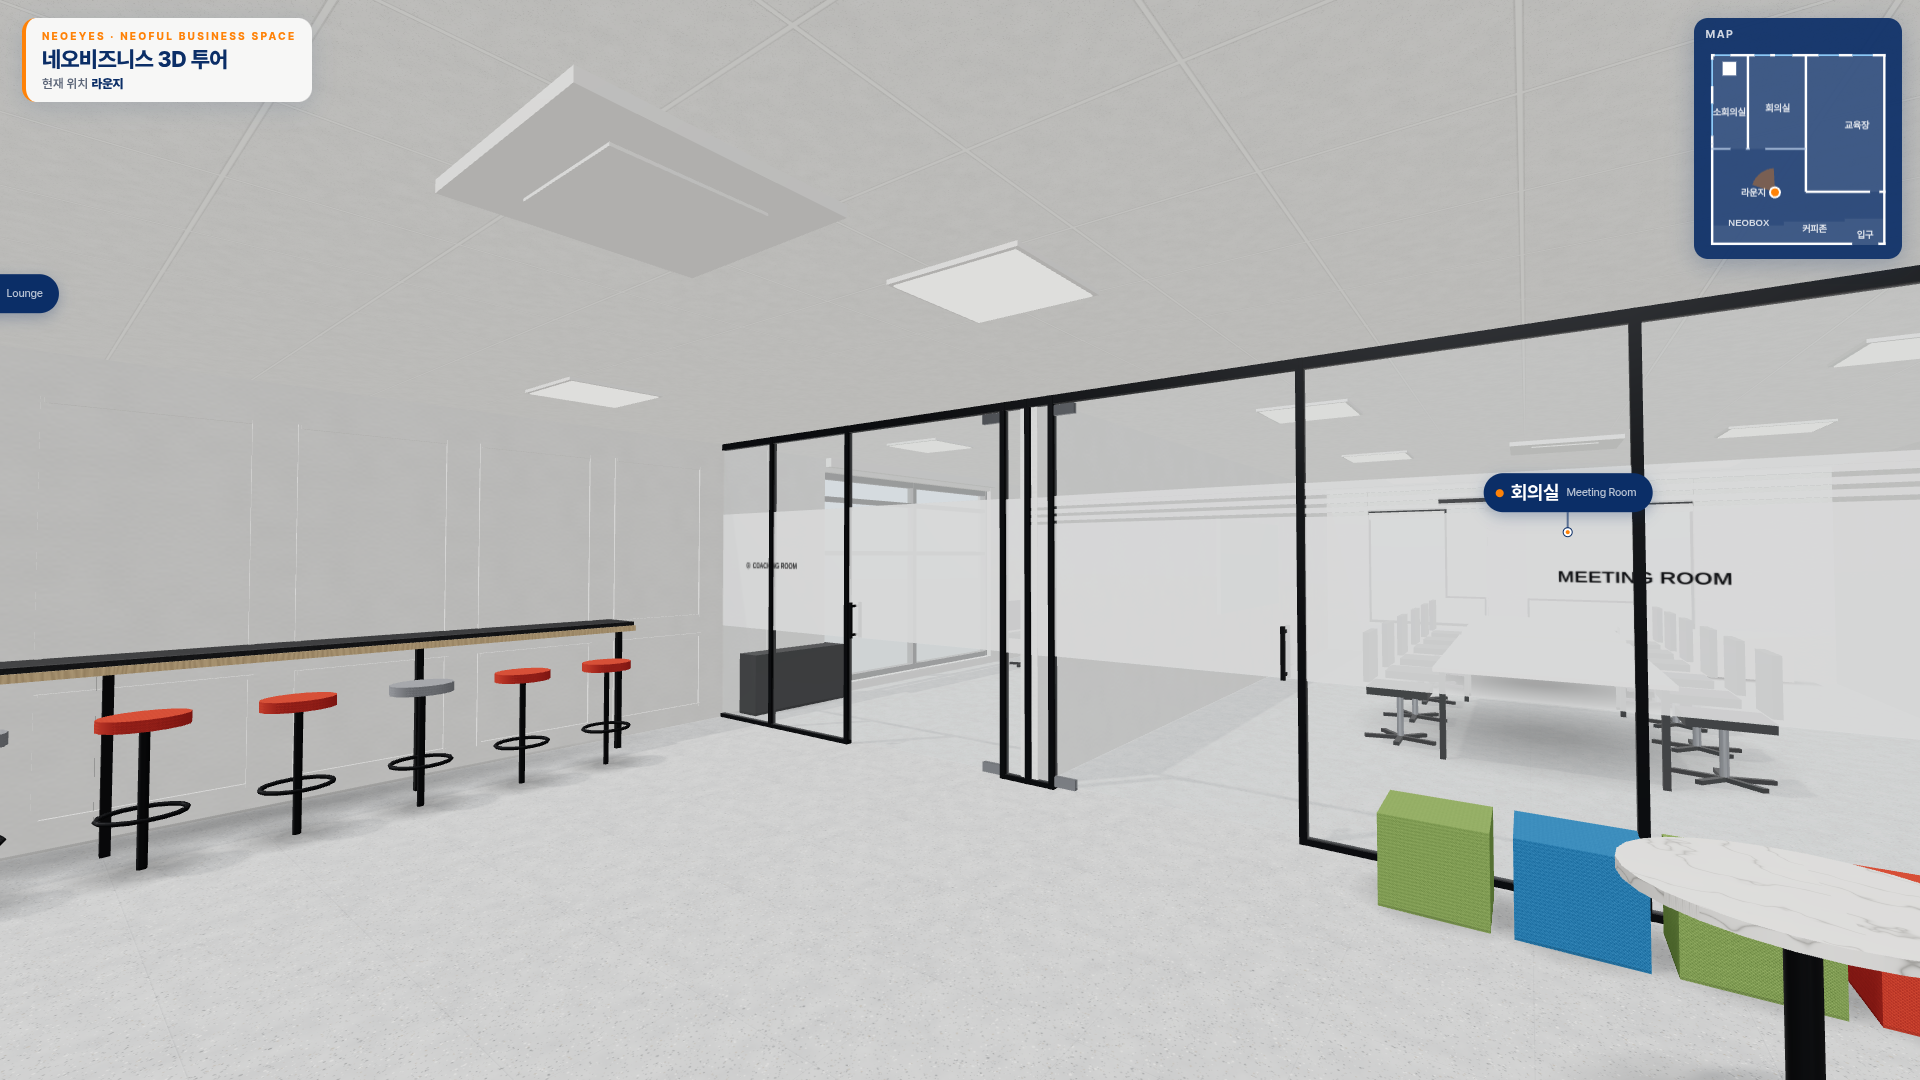
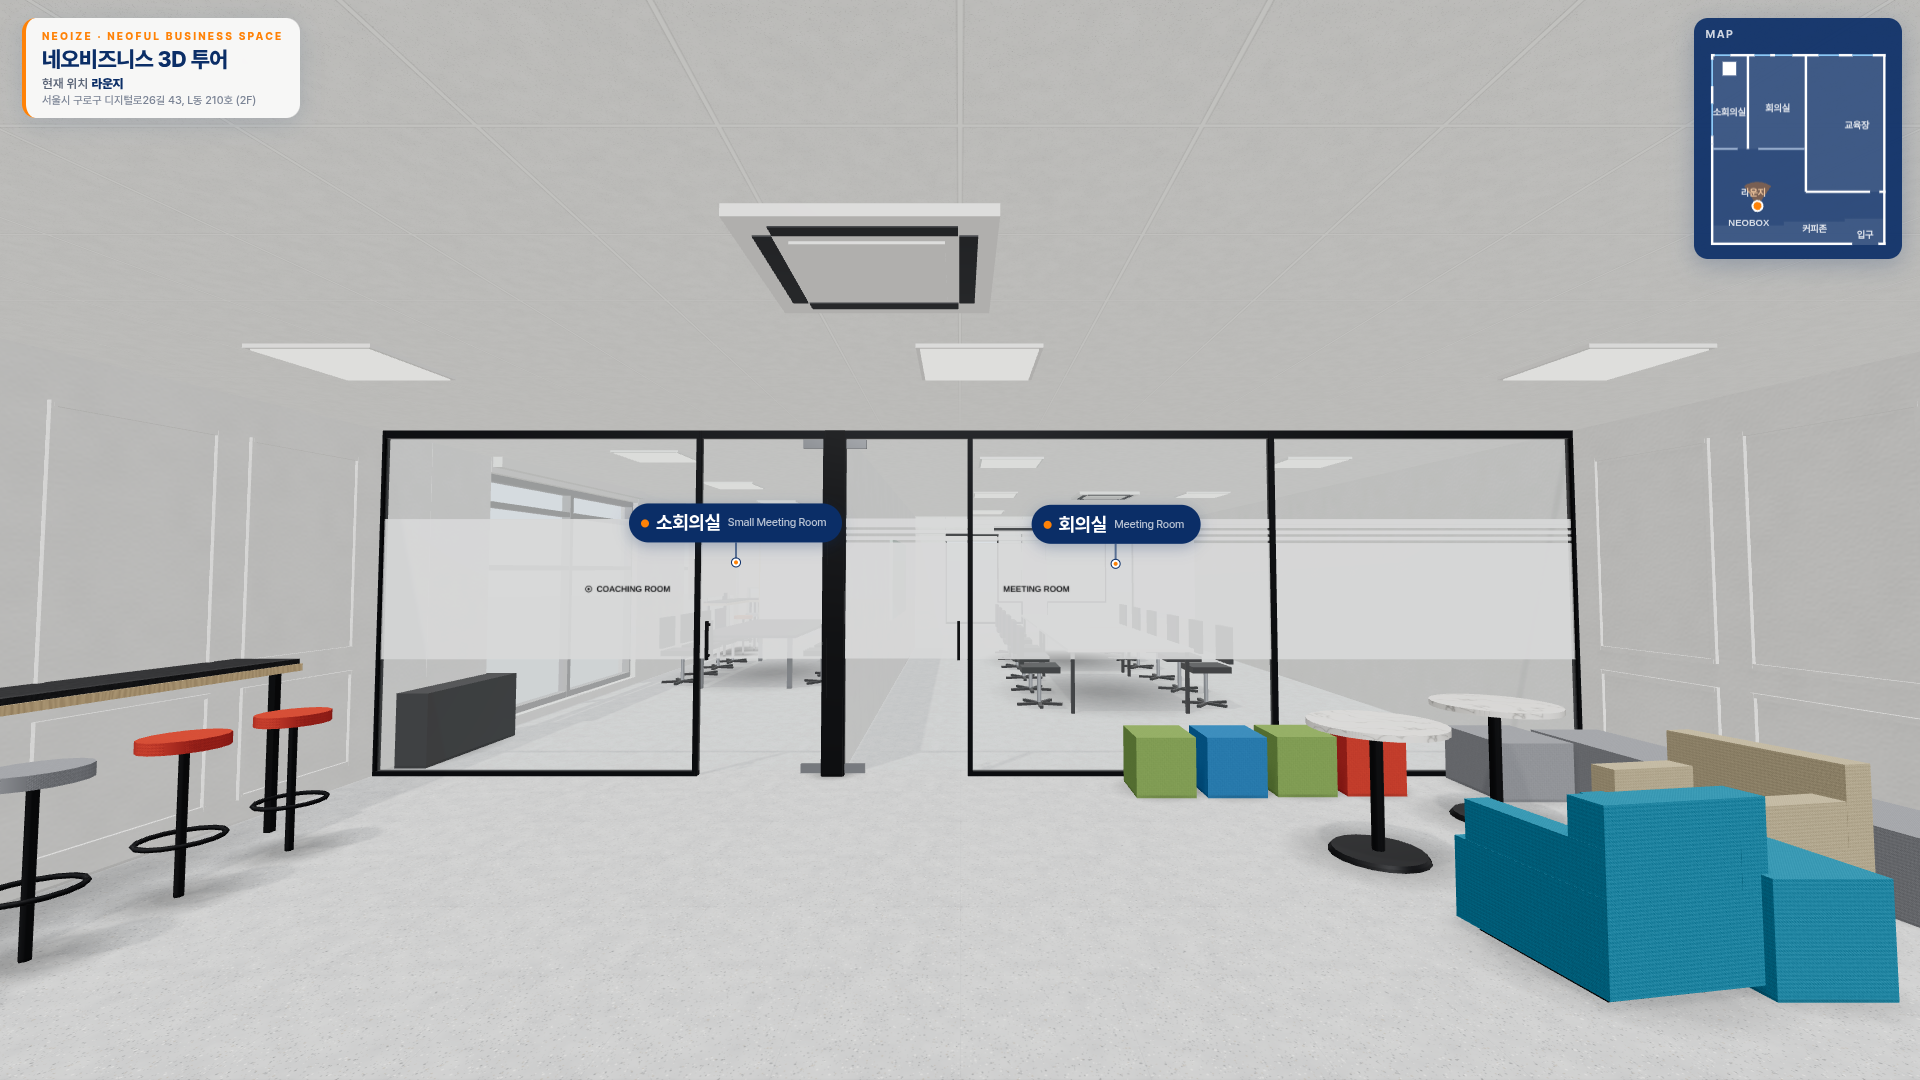
소회의실 유리 2장·회의실 유리 3장(문 포함), 유리 글씨 위치 사진 기준

diff --git a/layout.js b/layout.js
@@ -120,10 +120,11 @@ window.LAYOUT = {
     { from:[3.81, 0],  to:[3.81, 9.74], type:'solid' },                       // 소회의실 | 회의실
     { from:[9.79, 0],  to:[9.79, 14.14], type:'solid', t:0.30, molding:'west', moldingFrom:9.86, moldingTo:14.14 },  // 회의실·라운지 | 교육장
     // 라운지 쪽 유리벽 (사용자 사진): 바닥~천장 유리 + 블랙 프레임, 0.9~2.0m 반투명 시트 띠, 문은 프레임리스 시트 유리문 + 세로 블랙 손잡이
-    { from:[0, 9.74],  to:[3.81, 9.74], type:'glass', style:'band', band:[0.9, 2.0], sign:{ text:'COACHING ROOM', at:1.0, y:1.5, size:0.11, icon:true },
-      openings:[ { at:2.0, width:1.6, door:'frameless', hinge:'end', swing:-63 } ] },    // 소회의실 앞 유리벽 + 문(동쪽 끝)
-    { from:[3.81, 9.74], to:[9.79, 9.74], type:'glass', style:'band', band:[0.9, 2.0], stripes:3, sign:{ text:'MEETING ROOM', at:7.0, y:1.5, size:0.11 },
-      openings:[ { at:4.0, width:1.6, door:'frameless', hinge:'start', swing:63 } ] },   // 회의실 앞 유리벽 + 문(서쪽 끝, 소회의실 문과 블랙 기둥 사이로 나란히)
+    { from:[0.24, 9.74], to:[3.74, 9.74], type:'glass', style:'band', band:[0.9, 2.0], bay:2.5, sign:{ text:'COACHING ROOM', at:2.2, y:1.45, size:0.1, icon:true },
+      openings:[ { at:2.74, width:1.0, door:'frameless', hinge:'end', swing:-63 } ] },    // 소회의실 앞 통유리 2장(고정 1 + 문 1, 문은 동쪽 끝)
+    { from:[3.88, 9.74], to:[9.64, 9.74], type:'glass', style:'band', band:[0.9, 2.0], stripes:3, bay:2.5, sign:{ text:'MEETING ROOM', at:5.4, y:1.45, size:0.1 },
+      openings:[ { at:3.88, width:1.0, door:'frameless', hinge:'start', swing:63 } ] },   // 회의실 앞 통유리 3장(문 1 + 고정 2, 문은 서쪽 끝 — 소회의실 문과 블랙 기둥 사이로 나란히)
+    // bay = 유리 한 장의 대략 폭(m). 구간 길이 ÷ bay 를 반올림한 수만큼 유리가 나뉘어요.
     { from:[9.79, 14.14], to:[18, 14.14], type:'solid', t:0.30, sign:{ text:'EDUCATION CENTER', at:16.88, y:2.33, size:0.12 },   // 문 위 사인 (사진 IMG_0380·0381)
       openings:[ { at:16.41, width:0.95, door:'glass', frame:'white', hinge:'start', swing:66 } ] }  // 교육장 출입문
   ],
@@ -184,6 +185,7 @@ window.LAYOUT = {
     { type:'block', x:0.32, z:1.4, w:0.08, d:0.06, h:0.14, y:1.02, color:'black' },   // 바 테이블 위 폰 거치대
 
     /* --- 회의실 --- */
+    { type:'block', x:3.81, z:9.74, w:0.16, d:0.08, h:2.7, color:'black' },   // 두 문 사이 블랙 기둥(벽 끝 마감)
     { type:'tableSet', x:6.7, z:2.5, w:1.4, d:3.0, top:'white', chairsLeft:3, chairsRight:3 },   // 회의 테이블 ① x6.0–7.4, z1.0–4.0
     { type:'tableSet', x:6.7, z:5.8, w:1.4, d:3.0, top:'white', chairsLeft:3, chairsRight:3 },   // 회의 테이블 ② x6.0–7.4, z4.3–7.3
     { type:'screen', x:6.7, z:0.18, w:2.2, rot:180 },

diff --git a/app.js b/app.js
@@ -5,7 +5,7 @@ import { OrbitControls } from 'three/addons/OrbitControls.js';
 import { CSS2DRenderer, CSS2DObject } from 'three/addons/CSS2DRenderer.js';
 import { RoomEnvironment } from 'three/addons/RoomEnvironment.js';
 import { mergeGeometries } from 'three/addons/BufferGeometryUtils.js';
-import { makeTextures, textTexture } from './textures.js?v=11190930';
+import { makeTextures, textTexture } from './textures.js?v=11190950';
 
 const L = window.LAYOUT, B = L.building, H = B.ceiling, EYE = B.eye || 1.6, W = B.width, D = B.depth;
 const TW = Object.assign({ exterior: 0.24, interior: 0.14, thick: 0.3 }, B.wall || {});

diff --git a/index.html b/index.html
@@ -131,8 +131,8 @@ body.shot #doorPrompt{font-size:22px;padding:12px 22px 12px 14px}body.shot #door
   </div>
 </aside>
 <!-- 공간 설정: 치수·가구 배치는 layout.js 에서 수정 -->
-<script src="layout.js?v=11190930"></script>
+<script src="layout.js?v=11190950"></script>
 <script type="importmap">{"imports":{"three":"./lib/three.module.min.js","three/addons/":"./lib/addons/"}}</script>
-<script type="module" src="app.js?v=11190930"></script>
+<script type="module" src="app.js?v=11190950"></script>
 </body>
 </html>
